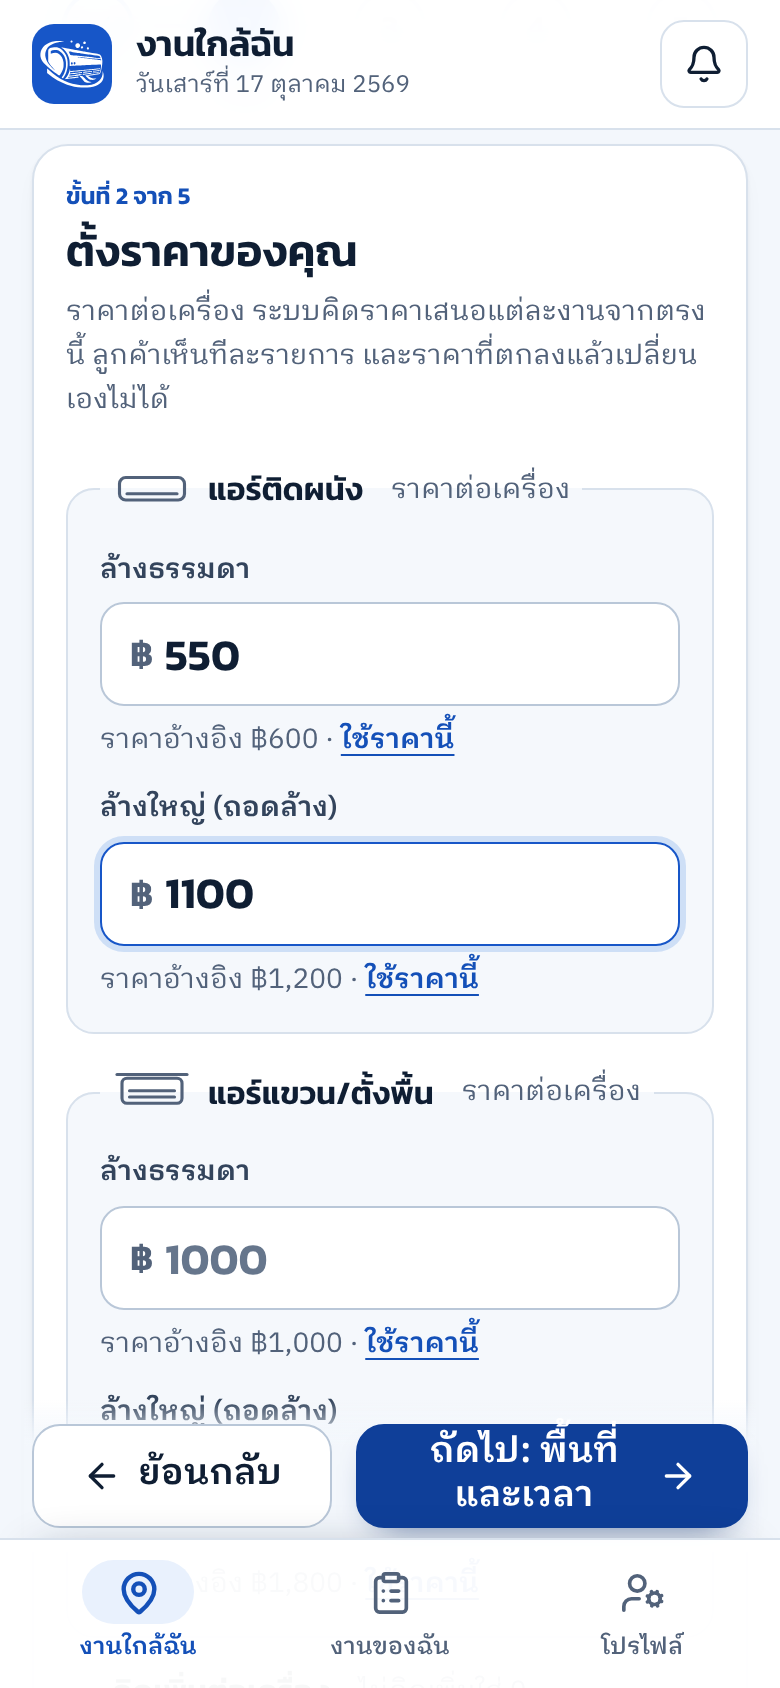
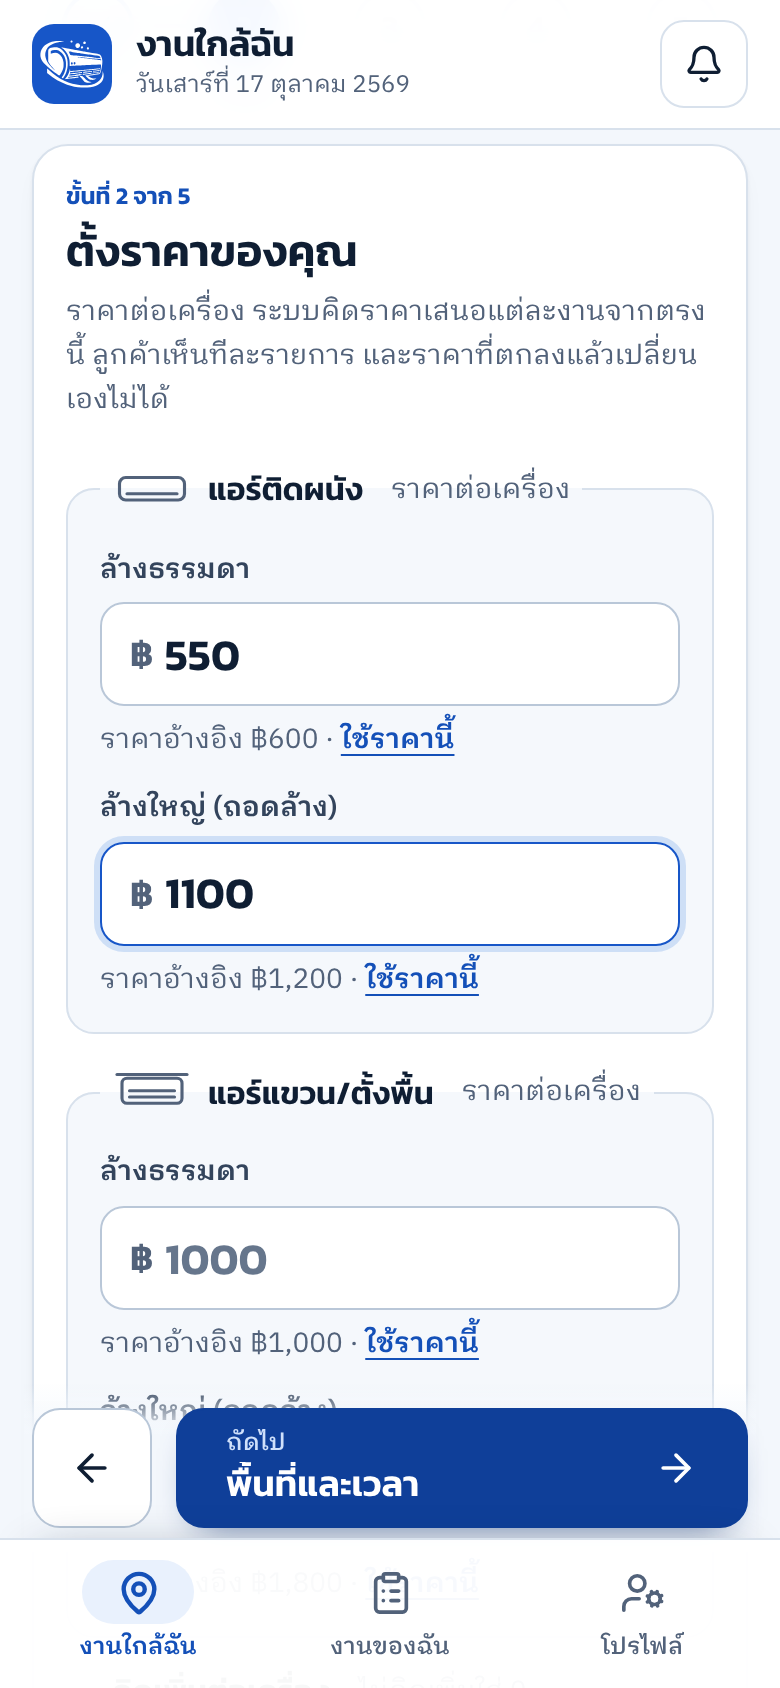
Keep button labels on one line at every width
The technician setup's next button wrapped its label ("ถัดไป: พื้นที่และ
เวลา") onto two centred lines beside the arrow. It now stacks a small
"ถัดไป" over the step name, left-aligned with the arrow at the right
edge, and the way back is a square arrow on phones, so the blue button
gets the width. Every page, the wizard and the booking form were
checked at 320, 360, 390, 768, 1024 and 1440 px: the only other cases,
the building's due-rooms button and the call button in a narrow column,
are shortened. Button hover colours apply only where there is a pointer,
so a tapped button no longer stays dark on phones.

Claude-Session: https://claude.ai/code/session_01VDtQpLCn5LCY6FhqzEn8aJ

Changed region(s): [[0.0923, 0.8318, 0.9538, 0.9242], [0.0308, 0.8318, 0.0923, 0.8626]]

diff --git a/frontend/src/styles/ui.css b/frontend/src/styles/ui.css
@@ -81,9 +81,12 @@
     color var(--v-fast) var(--v-ease),
     transform var(--v-fast) var(--v-ease);
 }
-.ui-btn:hover:not(:disabled) {
-  border-color: var(--v-blue-400);
-  background: var(--v-blue-050);
+/* Hover colours only where there is a pointer: on touch screens they would stick after a tap. */
+@media (hover: hover) {
+  .ui-btn:hover:not(:disabled) {
+    border-color: var(--v-blue-400);
+    background: var(--v-blue-050);
+  }
 }
 .ui-btn:active:not(:disabled) {
   transform: translateY(1px);
@@ -103,33 +106,41 @@
   color: var(--v-on-blue);
   box-shadow: 0 8px 18px -12px rgb(11 47 116 / 0.9);
 }
-.ui-btn.is-primary:hover:not(:disabled) {
-  border-color: var(--v-blue-800);
-  background: var(--v-blue-800);
+@media (hover: hover) {
+  .ui-btn.is-primary:hover:not(:disabled) {
+    border-color: var(--v-blue-800);
+    background: var(--v-blue-800);
+  }
 }
 .ui-btn.is-turn {
   border-color: var(--v-turn-deep);
   background: var(--v-turn);
   color: var(--v-turn-ink);
 }
-.ui-btn.is-turn:hover:not(:disabled) {
-  background: var(--v-turn-deep);
+@media (hover: hover) {
+  .ui-btn.is-turn:hover:not(:disabled) {
+    background: var(--v-turn-deep);
+  }
 }
 .ui-btn.is-ghost {
   border-color: transparent;
   background: transparent;
   color: var(--v-blue-700);
 }
-.ui-btn.is-ghost:hover:not(:disabled) {
-  background: var(--v-blue-100);
+@media (hover: hover) {
+  .ui-btn.is-ghost:hover:not(:disabled) {
+    background: var(--v-blue-100);
+  }
 }
 .ui-btn.is-danger {
   border-color: var(--v-problem-line);
   color: var(--v-problem);
 }
-.ui-btn.is-danger:hover:not(:disabled) {
-  border-color: var(--v-problem);
-  background: var(--v-problem-bg);
+@media (hover: hover) {
+  .ui-btn.is-danger:hover:not(:disabled) {
+    border-color: var(--v-problem);
+    background: var(--v-problem-bg);
+  }
 }
 /* The one button that destroys something for good (delete the account): solid red, used once per screen. */
 .ui-btn.is-destroy {
@@ -137,9 +148,11 @@
   background: var(--v-problem);
   color: #ffffff;
 }
-.ui-btn.is-destroy:hover:not(:disabled) {
-  border-color: var(--v-problem-ink);
-  background: var(--v-problem-ink);
+@media (hover: hover) {
+  .ui-btn.is-destroy:hover:not(:disabled) {
+    border-color: var(--v-problem-ink);
+    background: var(--v-problem-ink);
+  }
 }
 /* Disabled: a plain grey, not a faded colour, so it stays readable outdoors and still reads as "not yet".
    Doubled class so it outranks every variant above. */
@@ -866,8 +879,10 @@ a.ui-row:hover {
   color: var(--v-blue-800);
   box-shadow: 0 10px 20px -14px rgb(0 0 0 / 0.7);
 }
-.ui-btn.is-light:hover:not(:disabled) {
-  background: var(--v-blue-050);
+@media (hover: hover) {
+  .ui-btn.is-light:hover:not(:disabled) {
+    background: var(--v-blue-050);
+  }
 }
 
 /* ───────── Numbered steps ───────── */

diff --git a/frontend/src/pages/TechnicianSetup.tsx b/frontend/src/pages/TechnicianSetup.tsx
@@ -1,5 +1,5 @@
 import { useEffect, useMemo, useRef, useState, type ReactNode } from 'react';
-import { ArrowLeft, ArrowRight, Check, CheckCircle2, IdCard, MapPin, Send, Tags, Wrench } from 'lucide-react';
+import { ArrowLeft, ArrowRight, Check, CheckCircle2, IdCard, Loader2, MapPin, Send, Tags, Wrench } from 'lucide-react';
 import type { AcKind, PriceGuide, TechnicianApplication, TechnicianDocument } from '../types';
 import { fetchPriceGuide, isApiConfigured, submitTechnicianProfile, updateMyTechnicianProfile } from '../lib/api';
 import { acKinds, baht, kindNames, referenceSheet } from '../lib/pricing';
@@ -203,10 +203,13 @@ export default function TechnicianSetup({ profile, onDone }: { profile: Technici
     </section>
 
     <div className="ts-foot">
-      {step > 0 && <button type="button" className="ui-btn is-lg" onClick={() => go(step - 1)} disabled={busy}><ArrowLeft size={20}/> ย้อนกลับ</button>}
+      {step > 0 && <button type="button" className="ui-btn is-lg ts-back" onClick={() => go(step - 1)} disabled={busy}><ArrowLeft size={22} aria-hidden="true"/><span className="ts-back-text">ย้อนกลับ</span></button>}
       {step < 4
-        ? <button type="button" className="ui-btn is-primary is-lg ts-next" onClick={next}>ถัดไป: {steps[step + 1].title} <ArrowRight size={20}/></button>
-        : <button type="button" className="ui-btn is-primary is-lg ts-next" onClick={() => void send()} disabled={busy} aria-busy={busy}>{busy ? 'กำลังส่ง…' : <>ส่งให้ผู้ดูแลตรวจ <Send size={20}/></>}</button>}
+        ? <button type="button" className="ui-btn is-primary is-lg ts-next" onClick={next}>
+            <span className="ts-next-text"><small>ถัดไป</small><span>{steps[step + 1].title}</span></span><ArrowRight size={22} aria-hidden="true"/></button>
+        : <button type="button" className="ui-btn is-primary is-lg ts-next" onClick={() => void send()} disabled={busy} aria-busy={busy}>
+            <span className="ts-next-text"><small>ขั้นสุดท้าย</small><span>{busy ? 'กำลังส่ง…' : 'ส่งให้ผู้ดูแลตรวจ'}</span></span>
+            {busy ? <Loader2 size={22} className="animate-spin" aria-hidden="true"/> : <Send size={22} aria-hidden="true"/>}</button>}
     </div>
   </div>;
 }

diff --git a/frontend/src/components/Setup.css b/frontend/src/components/Setup.css
@@ -381,16 +381,59 @@
   padding: 12px 4px;
   background: linear-gradient(to top, var(--v-ground) 70%, transparent);
 }
+/* Back stays as small as its words; the next step takes the rest, its name on its own line under "ถัดไป" so it
+   never wraps mid-phrase, with the arrow pinned to the right edge. */
+.ts-back {
+  flex: none;
+  padding: 0 18px 0 14px;
+}
 .ts-next {
   flex: 1;
+  justify-content: space-between;
+  gap: 12px;
+  min-width: 0;
+  min-height: 60px;
+  padding: 0 18px 0 20px;
+  text-align: left;
+}
+.ts-next-text {
+  display: flex;
+  flex-direction: column;
+  gap: 2px;
+  min-width: 0;
+}
+.ts-next-text small {
+  font: 500 var(--v-text-xs) / 1.2 var(--v-font-text);
+  color: var(--v-on-blue-2);
+}
+.ts-next-text > span {
+  overflow: hidden;
+  font: 600 var(--v-text-lg) / 1.25 var(--v-font-head);
+  text-overflow: ellipsis;
+}
+.ts-next:disabled .ts-next-text small {
+  color: inherit;
 }
 @media (max-width: 1023px) {
   .sh.has-tabbar .ts-foot {
     bottom: calc(68px + env(safe-area-inset-bottom));
   }
 }
-.ts-foot .ui-btn {
-  min-width: 0;
-  white-space: normal;
-  text-align: center;
+.ts-foot .ui-btn.ts-back {
+  min-height: 60px;
+}
+/* On a phone the way back is the arrow alone, a square as tall as the next button; its name stays for screen readers. */
+@media (max-width: 419px) {
+  .ts-back {
+    width: 60px;
+    padding: 0;
+  }
+  .ts-back-text {
+    position: absolute;
+    width: 1px;
+    height: 1px;
+    overflow: hidden;
+    clip: rect(0 0 0 0);
+    white-space: nowrap;
+  }
 }

diff --git a/frontend/src/pages/TechnicianJobsPage.tsx b/frontend/src/pages/TechnicianJobsPage.tsx
@@ -387,7 +387,7 @@ function JobDetail({ booking, bookings, reports, onBack, onStatusChange, onLocat
       <div className="ui-card-head"><div><h2 id={`tj-go-${booking.id}`}>ที่ต้องไป</h2><p>{booking.customer} · {booking.propertyType || 'ที่พัก'}</p></div></div>
       <p className="tj-address">{booking.address}</p>
       {booking.customerPhone && <a className="ui-btn is-lg is-block tj-call" href={telLink(booking.customerPhone)} aria-label={`โทรหาลูกค้า ${formatPhone(booking.customerPhone)}`}>
-        <Phone size={20}/><span>โทรหาลูกค้า</span><span className="ui-num">{formatPhone(booking.customerPhone)}</span>
+        <Phone size={20} aria-hidden="true"/><span className="tj-call-label">โทรหาลูกค้า</span><span className="ui-num">{formatPhone(booking.customerPhone)}</span>
       </a>}
       {hasDestination && <div className="jb-map"><LocationMap key={booking.id + booking.status} center={hasOwn && traveling ? { latitude: booking.technicianLatitude!, longitude: booking.technicianLongitude! } : { latitude: booking.latitude!, longitude: booking.longitude! }}
         destination={{ latitude: booking.latitude!, longitude: booking.longitude!, label: 'บ้านลูกค้า', kind: 'destination' }}

diff --git a/frontend/src/pages/BuildingsPage.tsx b/frontend/src/pages/BuildingsPage.tsx
@@ -111,7 +111,7 @@ export default function BuildingsPage({ bookings, onBook, onOpenJob, onNotice }:
 
         <div className="bd-actions">
           {stats.dueRooms.length > 0 && !stats.active
-            ? <button type="button" className="ui-btn is-primary is-lg" onClick={() => onBook(place.id, stats.dueRooms)}><Wind size={19}/> ขอช่างล้าง {stats.dueRooms.length} ห้องที่ถึงรอบ</button>
+            ? <button type="button" className="ui-btn is-primary is-lg" onClick={() => onBook(place.id, stats.dueRooms)}><Wind size={19}/> ขอช่างล้าง {stats.dueRooms.length} ห้องนี้</button>
             : <button type="button" className={'ui-btn is-lg' + (stats.active ? '' : ' is-primary')} onClick={() => onBook(place.id)}><Wind size={19}/> ขอช่างล้างอาคารนี้</button>}
           <button type="button" className="ui-btn is-lg" onClick={() => setEditing(place)}>แก้ไข</button>
         </div>

diff --git a/frontend/src/pages/TechnicianJobs.css b/frontend/src/pages/TechnicianJobs.css
@@ -279,8 +279,26 @@
   color: var(--v-ink);
   overflow-wrap: anywhere;
 }
+/* The number matters most: where the card is narrow (the side column on a small laptop) the words give way first. */
+.tj-go {
+  container-type: inline-size;
+}
 .tj-call {
   justify-content: flex-start;
+  min-width: 0;
+}
+.tj-call-label {
+  min-width: 0;
+  overflow: hidden;
+  text-overflow: ellipsis;
+}
+@container (max-width: 300px) {
+  .tj-call-label {
+    display: none;
+  }
+  .tj-call .ui-num {
+    margin: 0 auto;
+  }
 }
 .tj-call .ui-num {
   margin-left: auto;

diff --git a/frontend/src/pages/Buildings.css b/frontend/src/pages/Buildings.css
@@ -122,8 +122,7 @@
   gap: 10px;
 }
 .bd-actions .ui-btn {
-  white-space: normal;
-  text-align: center;
+  min-width: 0;
 }
 @media (max-width: 459px) {
   .bd-actions {

diff --git a/docs/redesign/PLAN.md b/docs/redesign/PLAN.md
@@ -22,6 +22,7 @@ Rules for every step
 - [x] **8. Finish.** The old theme files (`CustomerExperience.css`, `WorkspaceTheme.css`) are gone and `index.css` keeps only Tailwind and the base rules; page CSS reads the `--v-*` tokens directly (the `--ac-*` aliases were removed), and state tints, borders and rating stars have tokens. Notification bell and push prompt are rebuilt on tokens (the prompt uses the kit `Sheet`). Tracking and reports are admin-only and rebuilt on jb rows and ui cards; reports show checklist completeness instead of a customer confirmation no screen offers. Approvals, issues and all technicians use ui-* fields and empty states, with their styles in `Admin.css`. A finish review against the direction contract led to: orange kept to "your turn" only (bell count red on every screen, technician map pin navy, no orange side stripe on reported issues), plain links in the brand blue, disabled buttons grey instead of faded, and a darker star amber. `DESIGN.md` (with `.impeccable/design.json`) records the built system; `docs/screenshots/` and both READMEs are refreshed; `docs/customer-ui.md` was out of date and is removed.
 
 ## Log
+- 2026-10-17: Buttons checked at 320–1440px on every page, the setup wizard and the booking form: the setup foot now has a square back arrow on phones and a next button with "ถัดไป" over the step name; two long labels shortened (building due rooms, the call button in a narrow column); hover colours only on pointer devices.
 - 2026-10-17: Account deletion at the owner's request: the last card on the account tab (pf-delete) opens a sheet that lists what goes, what is cancelled and what is kept, confirmed with the password; `.ui-btn.is-destroy` is the one solid red button for it. Privacy §4/§6 and terms §10 now describe self-service deletion.
 - 2026-10-17: Owner requests after step 8. (1) Technicians set up their own work after sign-up (`pages/TechnicianSetup.tsx`, shared pieces in `components/TechnicianServices.tsx`, `Setup.css` ts-): kinds of unit, deep cleans, other work, prices per unit with the going rate beside them, area and hours, ID card, then send for review; the admin's queue and approval wait for it, and the job feed only shows jobs they take. (2) Colour: mint (`--v-turn` #3ddbaa) replaces orange for "your turn", and the app is lighter: white rail and phone bar, pale blue job band, sign-in side and legal band, white summary cards; blue stays on plates, the main action and the active place. Hero phone screens recaptured.
 - 2026-10-17: Step 8 done; the redesign plan is complete. Apple sign-in was dropped at the owner's request (Google and email only). Still worth checking with real users: the reference prices, Google photo import with a real account, and whether the admin wants report photos back (the before/after links are rarely filled now that job photos exist).

diff --git a/DESIGN.md b/DESIGN.md
@@ -227,7 +227,7 @@ Gently rounded, sturdy rectangles. Buttons, plates, options, tabs and toasts use
 
 Shared components are `ui-*` in `styles/ui.css`; React helpers in `components/kit.tsx`.
 
-- **Buttons `ui-btn`:** 48px (`--v-control`), 600 text. Default white with strong line; `is-primary` blue-700 (the one main action); `is-turn` mint (only when the action is the person's turn); `is-ghost` blue text; `is-danger` red text; `is-destroy` solid red, only for the final step of something that cannot be undone (deleting the account); `is-light` white on blue or photo; `is-lg` 52px (`--v-control-lg`, pinned or primary phone actions); `is-sm` 38px for dense rows; `is-block` full width. Hover tints, active nudges 1px; disabled turns plain grey (sunken ground, ink-3 text) rather than fading, so it stays readable outdoors; `aria-busy` for work.
+- **Buttons `ui-btn`:** 48px (`--v-control`), 600 text. Default white with strong line; `is-primary` blue-700 (the one main action); `is-turn` mint (only when the action is the person's turn); `is-ghost` blue text; `is-danger` red text; `is-destroy` solid red, only for the final step of something that cannot be undone (deleting the account); `is-light` white on blue or photo; `is-lg` 52px (`--v-control-lg`, pinned or primary phone actions); `is-sm` 38px for dense rows; `is-block` full width. Hover tints (only on devices with a pointer, so a tapped button does not stay dark on a phone), active nudges 1px; a label stays on one line, so shorten it or stack it (small "ถัดไป" over the step name, as in the technician setup) rather than let it wrap; disabled turns plain grey (sunken ground, ink-3 text) rather than fading, so it stays readable outdoors; `aria-busy` for work.
 - **`ui-icon-btn`** 44px square; **`ui-link`** underlined inline action.
 - **Fields `ui-field` + `ui-input`/`ui-select`/`ui-textarea`:** 48px, 16px text, label above, help `small`. Focus: blue-600 border plus 3px blue halo; `aria-invalid` red border and halo.
 - **`ui-option`:** one choice from a few, with a line each (radio/checkbox or `aria-checked`); selected gets blue border and tint. **`ui-check`:** labelled checkbox, 44px.
